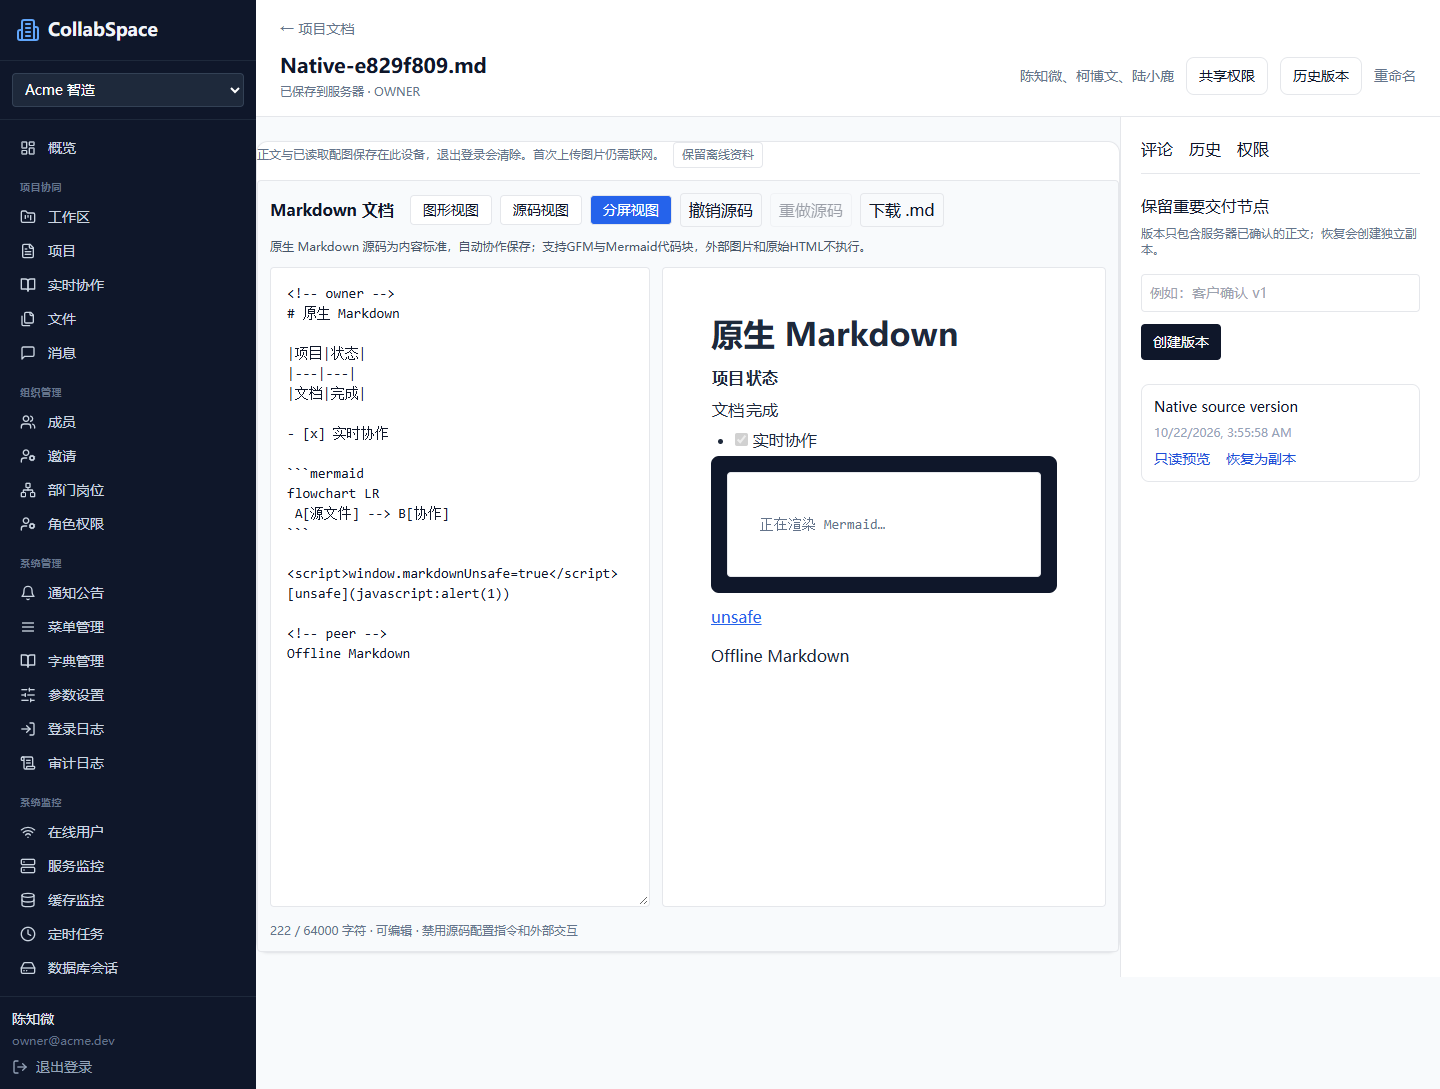
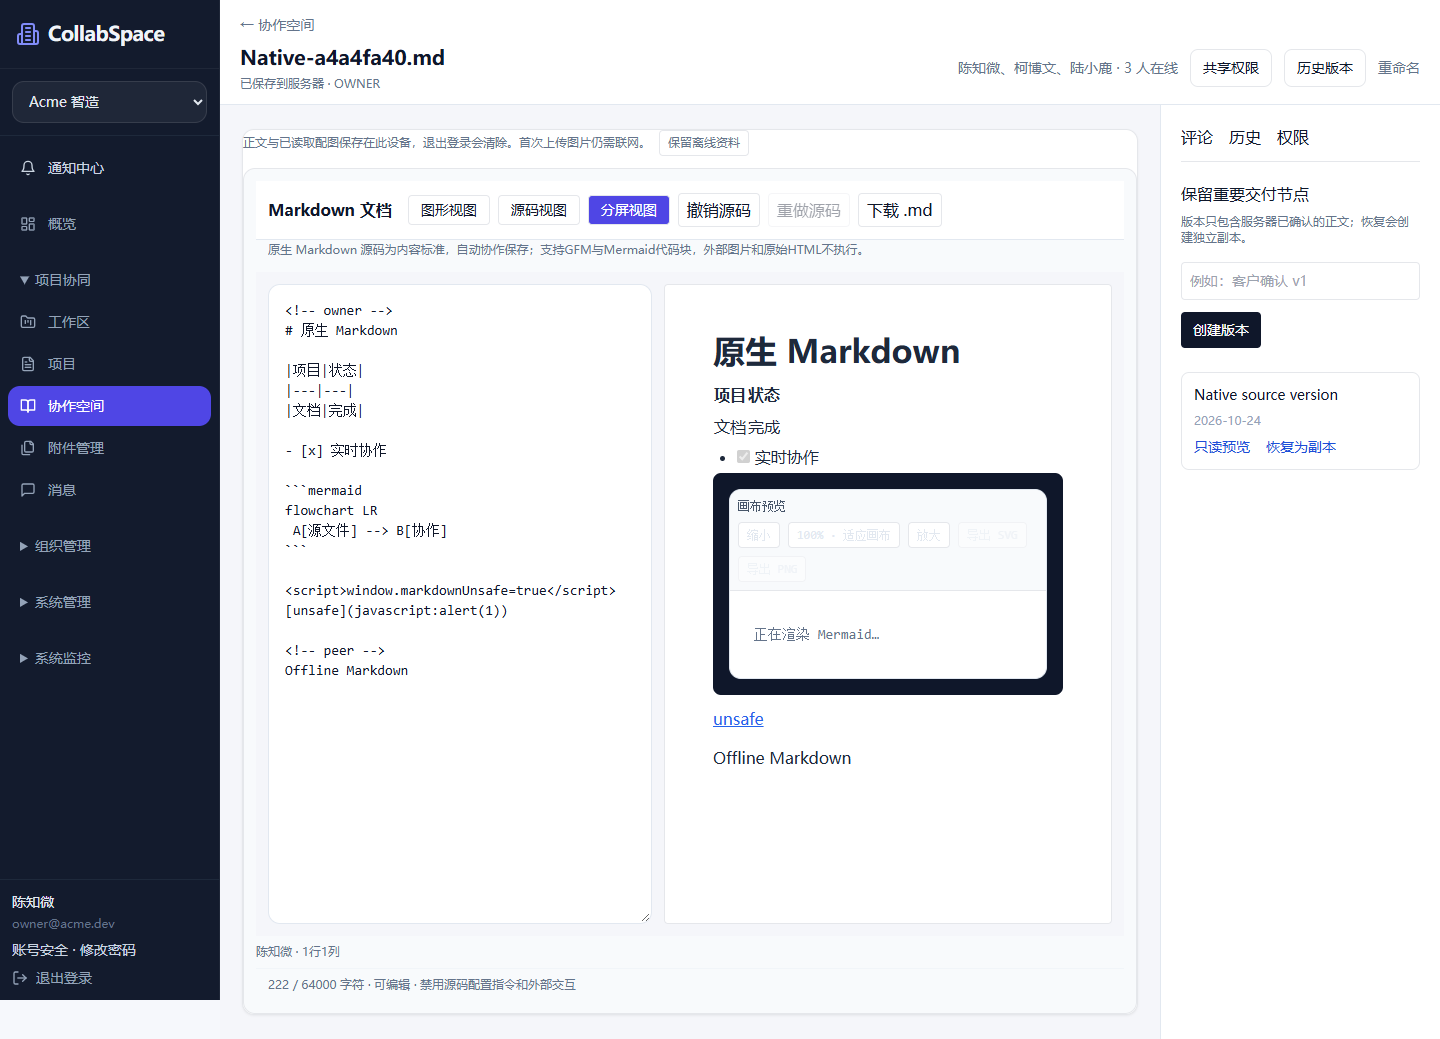
docs: archive unified workspace live multi-account acceptance

diff --git a/evidence/collaboration/UNIFIED-WORKSPACE-2026-10-24.md b/evidence/collaboration/UNIFIED-WORKSPACE-2026-10-24.md
@@ -1,0 +1,43 @@
+# Unified Workspace — 2026-10-24
+
+## Delivered
+
+P-HUB / BR-HUB / D-HUB / AT-HUB: see [UNIFIED-WORKSPACE](../../docs/collaboration/UNIFIED-WORKSPACE.md).
+Single global `/collaboration` and scoped `/projects/:id/content` for rich text, Markdown, Mermaid board and Word/Excel/PowerPoint. Existing routes remain valid. Attachment management keeps ordinary file operations. Blank Office creation uses existing Office permissions, storage, immutable versions and engine.
+
+## Verification
+
+- PASSED: API build; Web production build, TypeScript and lint (existing register effect/image warnings remain).
+- PASSED: Web unit 18/18; API unit 24 passed, 4 skipped; real nonprivileged PostgreSQL/WebSocket integration 35/35.
+- PASSED: blank template OOXML validation, concurrent idempotent creation, conflicting retry, forged organization, restricted READ ceiling, last-editor metadata and board source import.
+- PASSED: local unified browser journey and local blank Office routing/roles/isolation. Local Office used an explicitly labelled engine stub; this does not prove native editing.
+- PASSED ONLINE: `tests/browser/workspace-hub.spec.cjs`, 2/2, 3.8 minutes. Created rich text/Markdown/board; imported .md/.mmd; searched and filtered; verified date/editor/roles, project and legacy routes, mobile navigation. Created blank DOCX/XLSX/PPTX through shared UI and opened each in actual native Office engine iframe. Three independent account sessions verified EDITOR, VIEWER, save refusal, revocation, de-duplication, restricted file filter and forged tenant refusal.
+- PASSED ONLINE: Mermaid two-user editing, comments, SVG export and recent list via `figma-layout.spec.cjs` after exact-label selector update.
+- Initial supplemental Markdown/Mermaid test attempt FAILED at ambiguous `所属项目` selector after adding a project filter. Updated exact selection; project-scoped import asserts the locked project rather than trying to change it. No production permission/quota weakening.
+- PASSED: downloaded Word checkpoint contains both real users' edit markers in OOXML (not merely an HTTP response).
+
+## Release and rollback
+
+Source `70f7cebcbc8533bda106198177b335697f8a84b0`; GitHub CI run 40090126663 SUCCESS. Follow-up `51ba3e5` contains selector corrections and excludes a concurrently developed unfinished assistant menu from the release; its working source is preserved.
+
+API `collabspace-api:r20261024-03`, image `sha256:63cdb32b1db92a8061c4283bcd0744e5b887d9185cc04b7ed514cf02911147aa`. Only API recreated. WS remains r20261024-02/schema4/image e4862c6eb6ef3e283dee9a85ae287d1c9d6a6dd76221642bc02d0db9a279c307. No dependencies or database migrations added to production. Bounded overlay includes compiled controllers, store modules and validated blank OOXML templates; other workspace features excluded.
+
+Pre-release DB backup `/opt/collabspace/shared/before-r20261024-03.dump` 1,074,428 bytes; attachment archive 157,645 bytes; pg_restore catalog validated. NOT_RUN: full restore rehearsal. Private environment backup retained. Server had 9.3GB free. First pre-switch gate failed because deployment script passed a filename instead of extension to template validation; corrected script passed, prior services stayed untouched until checks succeeded.
+
+Initial frontend candidate dpl_4t3qvxCkVmXkvjWs5rjrdcQ82SDB was promoted and used for above online acceptance. Final navigation-only frontend recorded below after readiness and smoke verification.
+
+Rollback API to prior compatible image with prior compose/env; keep database/files and schema4 WS. Never downgrade WS/frontend to schema3 after formula writes. Office engine/license and provider credentials unchanged.
+
+## Boundaries
+
+NOT_RUN: full Microsoft desktop round-trip matrix, newly repeated Excel/PPT simultaneous-edit/save regression, broad browser compatibility/HA/load tests. Native open of all three formats is verified; this iteration does not expand Office engine functionality or promise Office offline editing. Existing offline document behavior preserved. Disk write followed by uncertain transaction failure can leave a small unreferenced object; no blind deletion. Physical Office first-open still requires uploader and canonical document grants. Ordinary attachments remain under Attachment Management.
+
+Screenshots: [desktop](unified-workspace-20261024.png), [mobile](unified-workspace-mobile-20261024.png). Synthetic acceptance resources remain in demo project; no unrelated projects removed.
+
+## Final acceptance
+
+- PASSED ONLINE: Word native three-account regression, 1/1 (4.5 minutes): actual owner/peer writes and revision 2 persistence, viewer refusal, revoked engine blocked despite suppressed app heartbeat, private history copy and reload. Both markers found in downloaded OOXML.
+- PASSED ONLINE: full Markdown source import, safe GFM/Mermaid preview, two-editor convergence, offline export/reconnect, comments and private history copy (1.5 minutes). The previous retry also exposed an obsolete `/files` Markdown link assertion; moved test to the unified scoped list and injected one list failure, then verified the real Reload action recovers it.
+- Final frontend: source `51ba3e5b2584d821d63bd11cdac60b530f17e371`, CI 40090985527 SUCCESS, Vercel `dpl_DMkjtTz24PQUw72Q4cgsfGBhJ7WX`, https://collabspace-1jzytn6f5-purelamp.vercel.app, promoted to https://collabspace.purelamp.uk. Backend source remains 70f7ceb; follow-up production code change only removes unfinished navigation item.
+
+Final promoted frontend smoke: Markdown + unified workspace 2/2 PASSED (2.6 minutes); final desktop/mobile screenshots replaced from this run. Workspace contains separate in-progress assistant/mail edits; they were preserved and excluded from this release. Local shared services left running for that development; no unrelated processes stopped.
